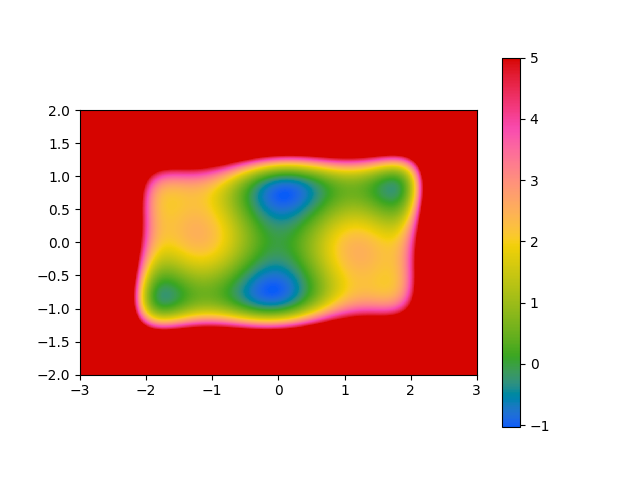
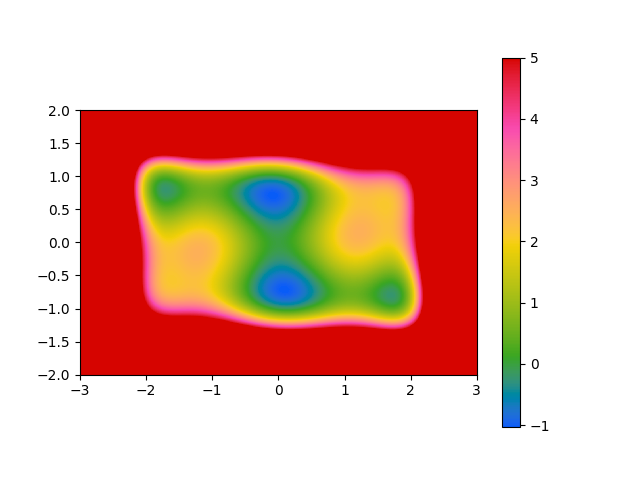
Update README and fix image orientation

Changed region(s): [[0.1875, 0.3125, 0.6875, 0.6875]]

diff --git a/README.md b/README.md
@@ -49,7 +49,8 @@ This creates a tree structure (currently) with a few hundred boxes, each corresp
 
 ![boxes](images/quaddirect_camel.png)
 
-You can see that it has concentrated its function evaluations near the global minima.
+You can see that it has concentrated its function evaluations near the local minima,
+and that all of the minima were explored.
 This plot was generated by utilities in `QuadDIRECT/src/plotting.jl`, which have to be
 loaded separatedly from the `QuadDIRECT` module.
 
